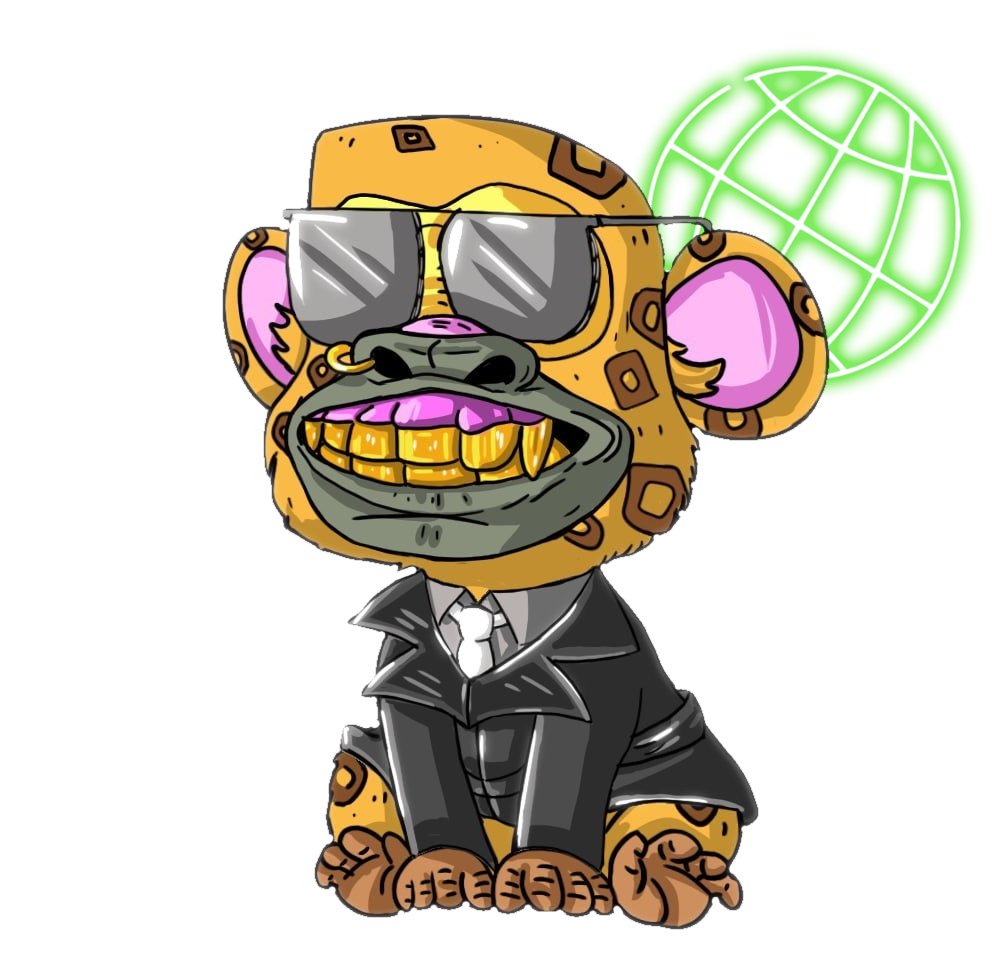
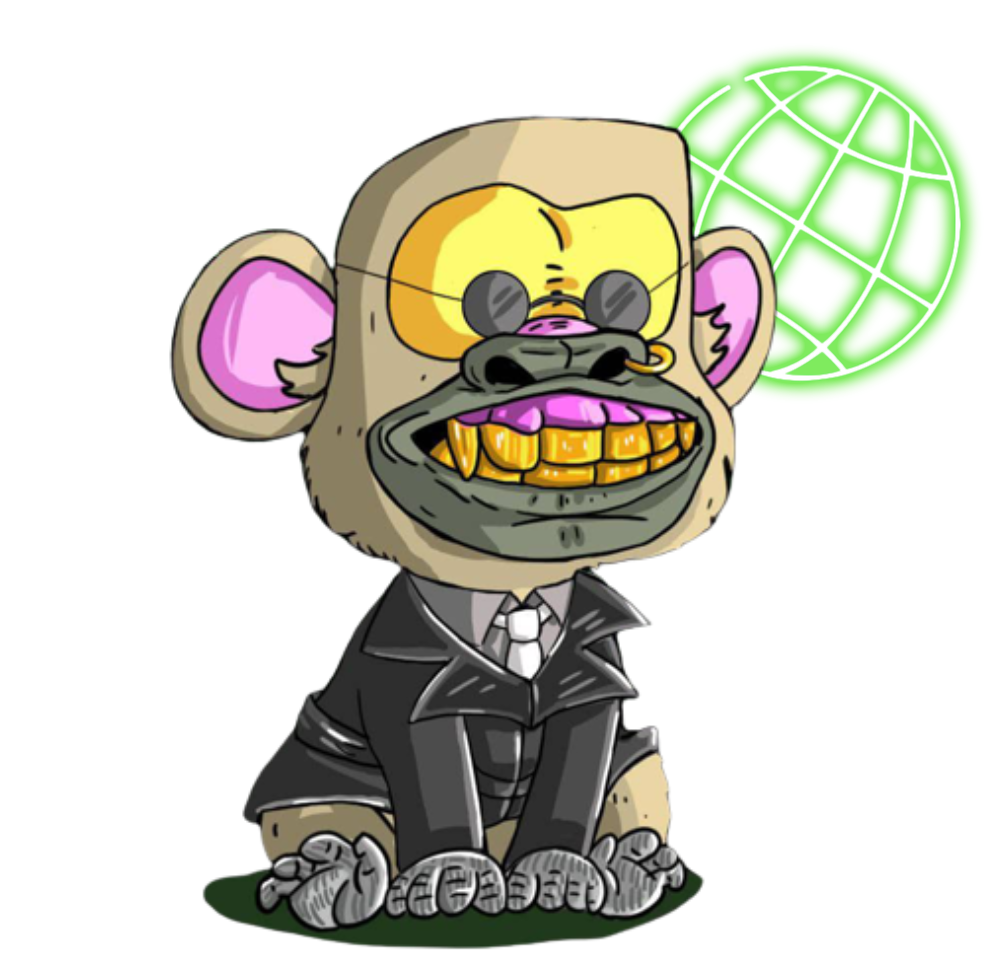
replace hero

diff --git a/src/components/FAQ/FAQ.tsx b/src/components/FAQ/FAQ.tsx
@@ -53,8 +53,14 @@ const FAQ = (props:any) => {
                     <AccordionItem bg="black" color="white" borderColor="#161616" borderWidth="10px">
                         <h2>
                         <AccordionButton>
-                            <Box flex='1' textAlign='left' textTransform="uppercase" padding="10px" _hover={{color:"yellow"}} fontSize={["14px","16px","18px","20px"]} fontWeight="900">
+                            <Box flex='1' >
+                                <Text
+                                textAlign='left' textTransform="uppercase" p="10px" _hover={{color:"yellow"}} fontSize={["14px","16px","18px","20px"]} fontWeight="900"
+                                textShadow="2px 2px 8px rgba(0, 255, 40, 0.8), -2px -2px 8px rgba(0, 255, 40, 0.8), 5px 5px 20px rgba(0, 255, 40, 0.8), -5px -5px 20px rgba(0, 255, 40, 0.8)"            
+                                lineHeight="96%"
+                                >
                                 WHAT PRIVILLEGES MAU NFT’S GIVE?
+                                </Text>
                             </Box>
                             <AccordionIcon />
                         </AccordionButton>
@@ -73,8 +79,14 @@ const FAQ = (props:any) => {
                     <AccordionItem bg="black" color="white" borderColor="#161616" borderWidth="10px">
                         <h2>
                         <AccordionButton>
-                            <Box flex='1' textAlign='left' textTransform="uppercase" padding="10px" _hover={{color:"yellow"}} fontSize={["14px","16px","18px","20px"]} fontWeight="900">
+                            <Box flex='1' >
+                                <Text
+                                textAlign='left' textTransform="uppercase" p="10px" _hover={{color:"yellow"}} fontSize={["14px","16px","18px","20px"]} fontWeight="900"
+                                textShadow="2px 2px 8px rgba(0, 255, 40, 0.8), -2px -2px 8px rgba(0, 255, 40, 0.8), 5px 5px 20px rgba(0, 255, 40, 0.8), -5px -5px 20px rgba(0, 255, 40, 0.8)"            
+                                lineHeight="96%"
+                                >
                                 WHY IS META APES UNIVERSE A VERY SUCCESSFUL INVESTMENT?
+                                </Text>
                             </Box>
                             <AccordionIcon />
                         </AccordionButton>
@@ -101,8 +113,14 @@ const FAQ = (props:any) => {
                     <AccordionItem bg="black" color="white" borderColor="#161616" borderWidth="10px">
                         <h2>
                         <AccordionButton>
-                            <Box flex='1' textAlign='left' textTransform="uppercase" padding="10px" _hover={{color:"yellow"}} fontSize={["14px","16px","18px","20px"]} fontWeight="900">
+                        <Box flex='1' >
+                                <Text
+                                textAlign='left' textTransform="uppercase" p="10px" _hover={{color:"yellow"}} fontSize={["14px","16px","18px","20px"]} fontWeight="900"
+                                textShadow="2px 2px 8px rgba(0, 255, 40, 0.8), -2px -2px 8px rgba(0, 255, 40, 0.8), 5px 5px 20px rgba(0, 255, 40, 0.8), -5px -5px 20px rgba(0, 255, 40, 0.8)"            
+                                lineHeight="96%"
+                                >
                                 HOW TO GET ON THE PRE-SALE MINT WHITELIST?
+                                </Text>
                             </Box>
                             <AccordionIcon />
                         </AccordionButton>
@@ -128,8 +146,14 @@ const FAQ = (props:any) => {
                     <AccordionItem bg="black" color="white" borderColor="#161616" borderWidth="10px">
                         <h2>
                         <AccordionButton>
-                            <Box flex='1' textAlign='left' textTransform="uppercase" padding="10px" _hover={{color:"yellow"}} fontSize={["14px","16px","18px","20px"]} fontWeight="900">
+                            <Box flex='1' >
+                                <Text
+                                textAlign='left' textTransform="uppercase" p="10px" _hover={{color:"yellow"}} fontSize={["14px","16px","18px","20px"]} fontWeight="900"
+                                textShadow="2px 2px 8px rgba(0, 255, 40, 0.8), -2px -2px 8px rgba(0, 255, 40, 0.8), 5px 5px 20px rgba(0, 255, 40, 0.8), -5px -5px 20px rgba(0, 255, 40, 0.8)"            
+                                lineHeight="96%"
+                                >
                                 WHY SHOULD YOU ENTER OUR COMMUNITY AND MAU CLUB?
+                                </Text>
                             </Box>
                             <AccordionIcon />
                         </AccordionButton>
@@ -154,8 +178,14 @@ const FAQ = (props:any) => {
                     <AccordionItem bg="black" color="white" borderColor="#161616" borderWidth="10px">
                         <h2>
                         <AccordionButton>
-                            <Box flex='1' textAlign='left' textTransform="uppercase" padding="10px" _hover={{color:"yellow"}} fontSize={["14px","16px","18px","20px"]} fontWeight="900">
+                            <Box flex='1' >
+                                <Text
+                                textAlign='left' textTransform="uppercase" p="10px" _hover={{color:"yellow"}} fontSize={["14px","16px","18px","20px"]} fontWeight="900"
+                                textShadow="2px 2px 8px rgba(0, 255, 40, 0.8), -2px -2px 8px rgba(0, 255, 40, 0.8), 5px 5px 20px rgba(0, 255, 40, 0.8), -5px -5px 20px rgba(0, 255, 40, 0.8)"            
+                                lineHeight="96%"
+                                >
                                 WHAT WILL THE MINT PRICE BE?
+                                </Text>
                             </Box>
                             <AccordionIcon />
                         </AccordionButton>

diff --git a/src/components/Hero/index.tsx b/src/components/Hero/index.tsx
@@ -30,10 +30,10 @@ const WelcomeImg = (props: any) => {
             fontSize={["30px", "35px", "38px", "42px", "45px"]}
             fontWeight="900"
             fontFamily="'Clash Display', sans-serif"
-            color="green"
+            color="rgb(255,255,235)"
             // textShadow="2px 2px 8px rgba(210, 210, 40, 0.8), -2px -2px 8px rgba(210, 210, 40, 0.8), 5px 5px 20px rgba(200, 200, 40, 0.8), -5px -5px 20px rgba(200, 200, 40, 0.8)"            
-            // textShadow="2px 2px 8px rgba(0, 210, 30, 0.8), -2px -2px 8px rgba(100, 210, 30, 0.8), 5px 5px 20px rgba(80, 200, 20, 0.8), -5px -5px 20px rgba(100, 200, 40, 0.8)"            
-            textShadow="2px 2px 8px rgba(255, 255, 255, 0.8), -2px -2px 8px rgba(255, 255, 255, 0.8), 5px 5px 20px rgba(255, 255, 255, 0.8), -5px -5px 20px rgba(255, 255, 255, 0.8)"
+            textShadow="2px 2px 8px rgba(100, 210, 30, 0.8), -2px -2px 8px rgba(100, 210, 30, 0.8), 5px 5px 20px rgba(80, 200, 20, 0.8), -5px -5px 20px rgba(100, 200, 40, 0.8)"            
+            // textShadow="2px 2px 8px rgba(210, 20, 180, 0.8), -2px -2px 8px rgba(210, 20, 180, 0.8), 5px 5px 20px rgba(210, 20, 180, 0.8), -5px -5px 20px rgba(210, 20, 180, 0.8)"
             textTransform="uppercase"
             lineHeight="96%"
             mb={6}

diff --git a/public/index.html b/public/index.html
@@ -24,7 +24,7 @@
       work correctly both with client-side routing and a non-root public URL.
       Learn how to configure a non-root public URL by running `npm run build`.
     -->
-    <title>React App</title>
+    <title>META APES UNIVERSE</title>
   </head>
   <body>
     <noscript>You need to enable JavaScript to run this app.</noscript>
